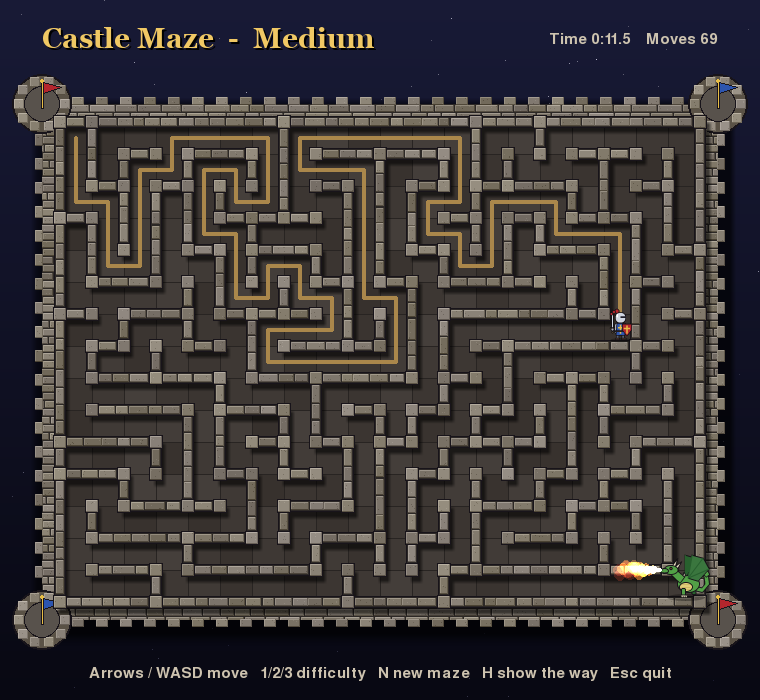
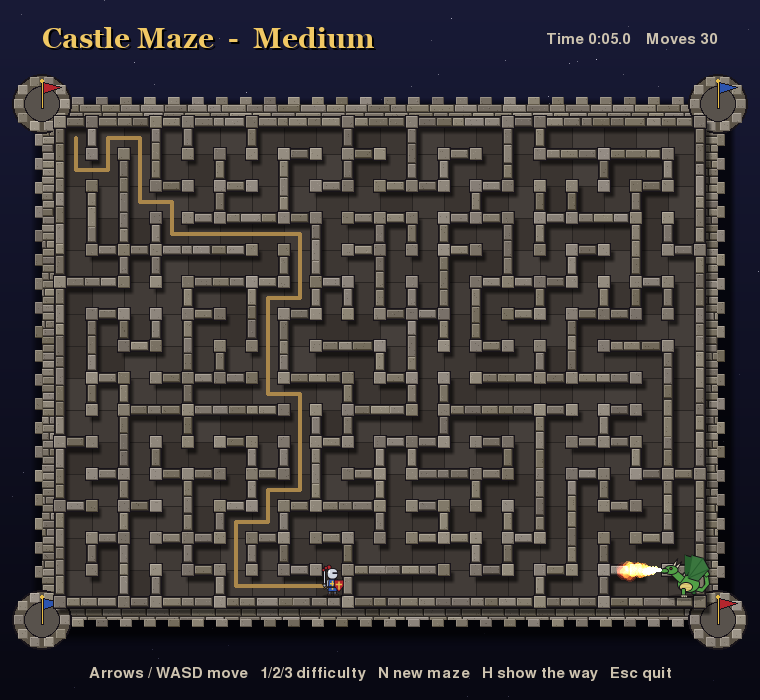
maze: smaller hard level and more dead ends on medium and hard

diff --git a/maze_game.py b/maze_game.py
@@ -20,8 +20,8 @@ BOARD_TOP = 92
 FRAME = 18   # thickness of the battlements around the board
 SPEED = 9    # cells per second while walking
 
-# (name, columns, rows)
-DIFFICULTIES = [("Easy", 12, 9), ("Medium", 20, 15), ("Hard", 32, 24)]
+# (name, columns, rows, branching: how often side passages sprout, for more dead ends)
+DIFFICULTIES = [("Easy", 12, 9, 0.0), ("Medium", 20, 15, 0.3), ("Hard", 26, 19, 0.5)]
 
 SKY_TOP, SKY_BOTTOM = (24, 26, 54), (8, 8, 18)
 STONE, MORTAR = (128, 120, 108), (44, 40, 38)
@@ -44,22 +44,28 @@ FIRE_EVERY, FIRE_FOR = 3.0, 0.9  # seconds between the dragon's breaths, and the
 
 
 # ── Maze generation ─────────────────────────────────────────────────────────
-def generate_maze(cols, rows):
-    """Returns {cell: set of open directions}, carved by a randomised depth-first search."""
+def generate_maze(cols, rows, branching=0.0):
+    """Returns {cell: set of open directions}, carved by a "growing tree" search.
+
+    With branching at 0 it keeps extending the newest passage, giving long winding
+    corridors. Higher values often restart from a random earlier cell instead,
+    which sprouts many more side passages and dead ends.
+    """
     open_sides = {(x, y): set() for x in range(cols) for y in range(rows)}
-    stack, seen = [(0, 0)], {(0, 0)}
-    while stack:
-        x, y = stack[-1]
+    active, seen = [(0, 0)], {(0, 0)}
+    while active:
+        i = random.randrange(len(active)) if random.random() < branching else -1
+        x, y = active[i]
         options = [(d, (x + dx, y + dy)) for d, (dx, dy) in STEPS.items()
                    if (x + dx, y + dy) in open_sides and (x + dx, y + dy) not in seen]
         if not options:
-            stack.pop()
+            active.pop(i)
             continue
         d, nxt = random.choice(options)
         open_sides[(x, y)].add(d)
         open_sides[nxt].add(OPPOSITE[d])
         seen.add(nxt)
-        stack.append(nxt)
+        active.append(nxt)
     return open_sides
 
 
@@ -320,11 +326,11 @@ class MazeGame:
 
     # ── Game state ──────────────────────────────────────────────────────────
     def new_maze(self):
-        _, self.cols, self.rows = DIFFICULTIES[self.difficulty]
+        _, self.cols, self.rows, branching = DIFFICULTIES[self.difficulty]
         self.cell = min(BOARD_W // self.cols, BOARD_H // self.rows)
         self.board_x = (WIDTH - self.cols * self.cell) // 2
         self.board_y = BOARD_TOP + (BOARD_H - self.rows * self.cell) // 2
-        self.maze = generate_maze(self.cols, self.rows)
+        self.maze = generate_maze(self.cols, self.rows, branching)
         self.goal = (self.cols - 1, self.rows - 1)
         self.player = (0, 0)
         self.target = None     # the cell being walked towards

diff --git a/README.md b/README.md
@@ -84,8 +84,9 @@ the wrong position.
 
 Guide the knight through the castle's stone corridors to slay the
 fire-breathing dragon in the far corner. Every maze is randomly generated, in
-three sizes: Easy (12×9), Medium (20×15) and Hard (32×24). A trail marks your
-path, and your best time for each size is kept for the session.
+three sizes: Easy (12×9), Medium (20×15, with more dead ends) and Hard
+(26×19, with the most dead ends). A trail marks your path, and your best time
+for each size is kept for the session.
 
 - **Arrow keys** / **WASD** — move (hold to keep going)
 - **1 / 2 / 3** — Easy / Medium / Hard
